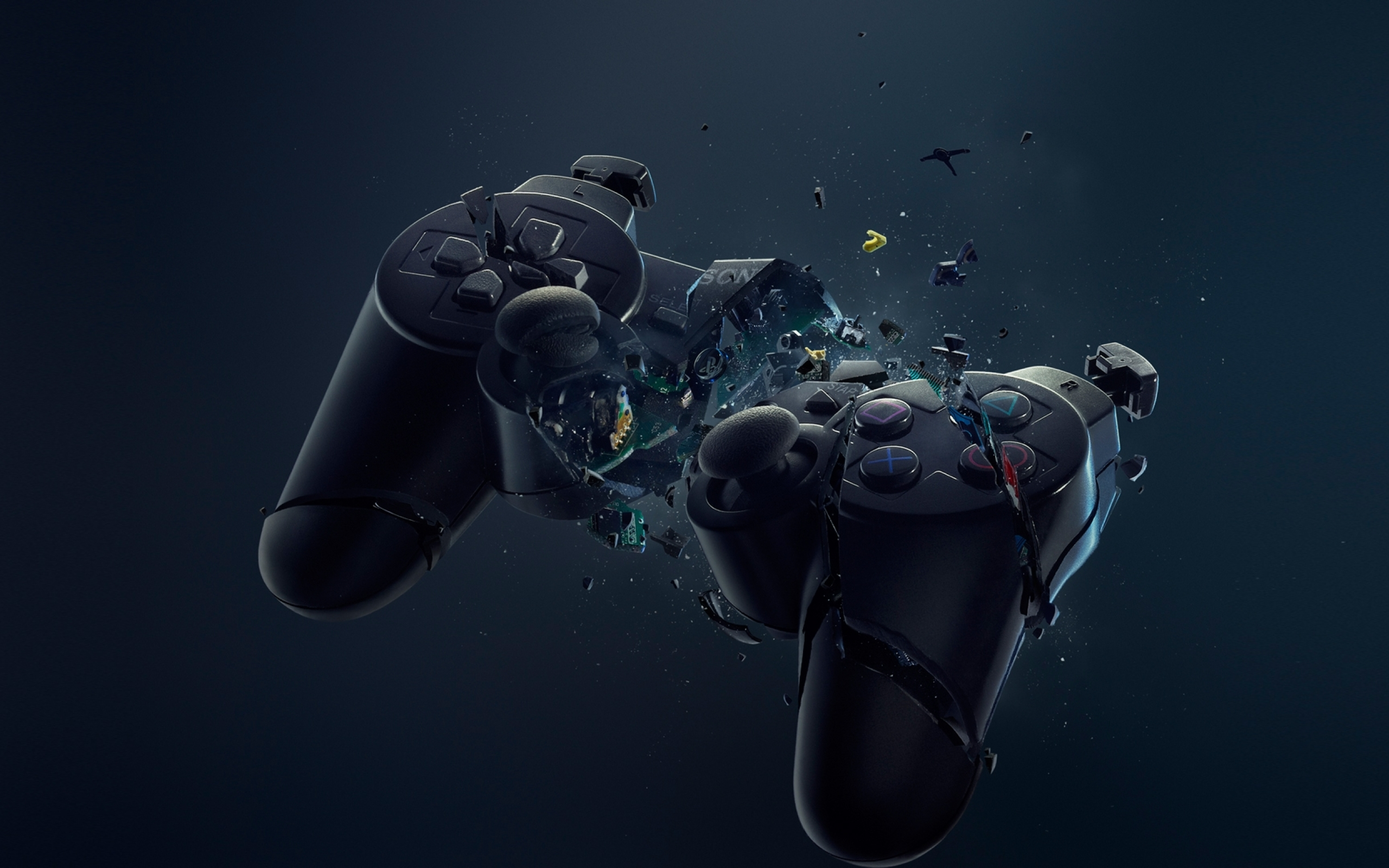
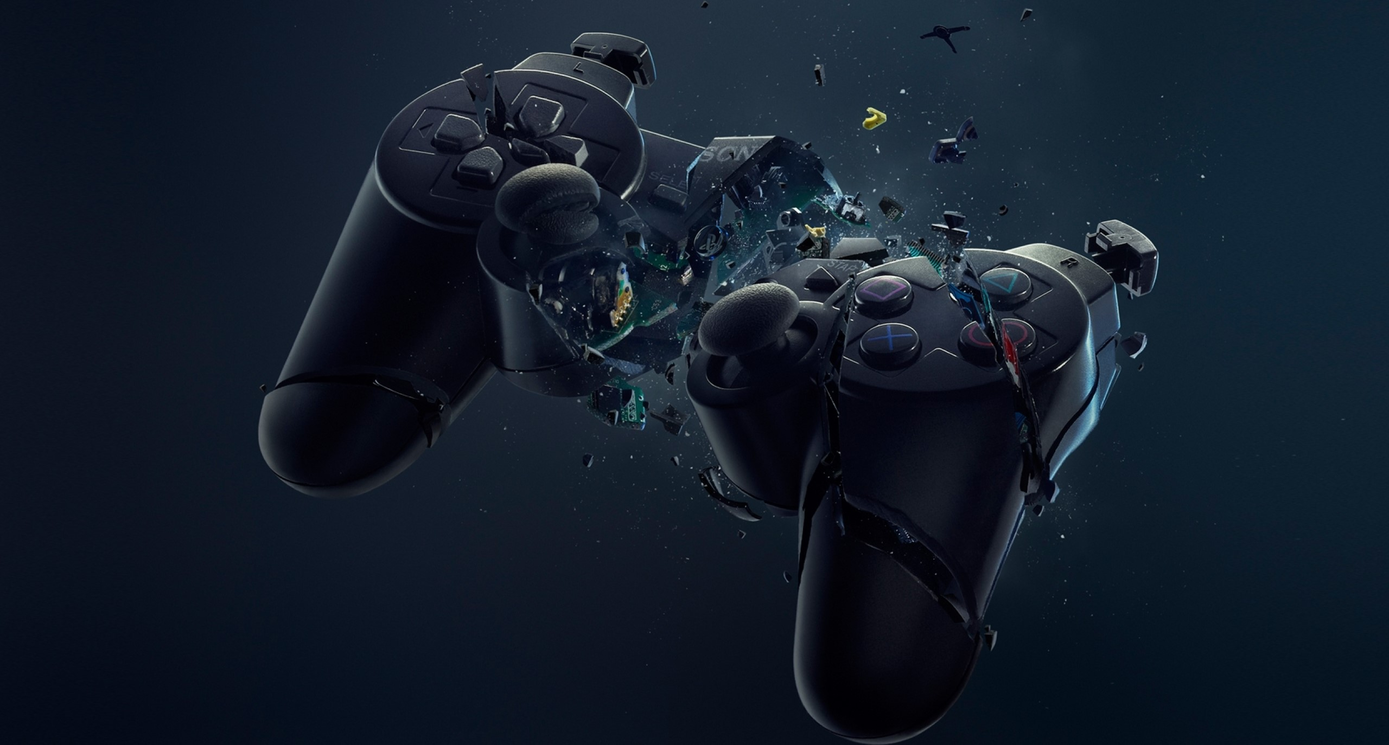
18

diff --git a/proyectos/Novedades.html b/proyectos/Novedades.html
@@ -54,8 +54,8 @@ fecha: Marzo 2021
 		<div class="contenido"><!--Informacion sacada de la noticia facilitada en el pdf -->
 		
 			<div class="ZOOM1">
-				<div><img class="fondo" src="mmedia/fondo_playStation.jpg" alt="" /></div>
-  				<div ><img class="front" src="mmedia/PS5-Golden.png"></div>
+				<div class="img1"><img class="fondo" src="mmedia/fondo_playStation.jpg"/></div>
+  				<div class="img2"><img class="front" src="mmedia/PS5-Golden.png"></div>
 			</div>
 		</br>
 		¿Qué son los "pixeles espías"?</br>Es tecnología de rastreo invisible que muchas marcas importantes (a excepción de las "grandes firmas tecnológicas") colocan dentro de los mensajes que envian por correo electronico, estos</br> pixeles se infiltran en tu ordenador para poder acceder a tu informacion privada. De acuerdo al análisis de Hey, dos tercios de los correos electrónicos enviados a las cuentas personales de sus</br> usuarios contenían uno de estos "píxeles espía", incluso después de excluirlos como correo basura.

diff --git a/proyectos/css/fichero.css b/proyectos/css/fichero.css
@@ -10,7 +10,7 @@
 		.marco {
 		  display: grid;
 		  grid-template-columns: auto;
-		  grid-template-rows: 150px 40px auto 40px;
+		  grid-template-rows: 50px 40px auto 40px;
 		  grid-gap: 10px;
 		  width: 100vw;
 		  height: 100vh;
@@ -87,7 +87,7 @@
 
 		.ZOOM1 {
   width: 900px;
-  height: 600px;
+  height: 500px;
   background: #000;
   overflow: hidden;
   margin: 25px auto;
@@ -108,8 +108,20 @@
 
 }
 
+.img1 {
+	position: absolute;
+	top: 0px;
+	left: 0px;
+}
 
-
+.img2 {
+	position: absolute;
+	top: 0px;
+	left: 0px;
+  -webkit-transform: translate(0%, -25%);
+      -ms-transform: translate(0%, -25%);
+          transform: translate(0%, -25%);
+}
 
 .front {
   object-fit: cover;
@@ -118,11 +130,12 @@
       -ms-transform: scale(1);
           transform: scale(0.1);
   -webkit-transition: -webkit-transform 1s;
+  	  -ms-transition: -ms-transform 1s;
           transition: transform 1s;
 }
 
 .fondo {
     width: 900px;
-    height: 600px;
+    height: 500px;
     object-fit: cover;
 }
